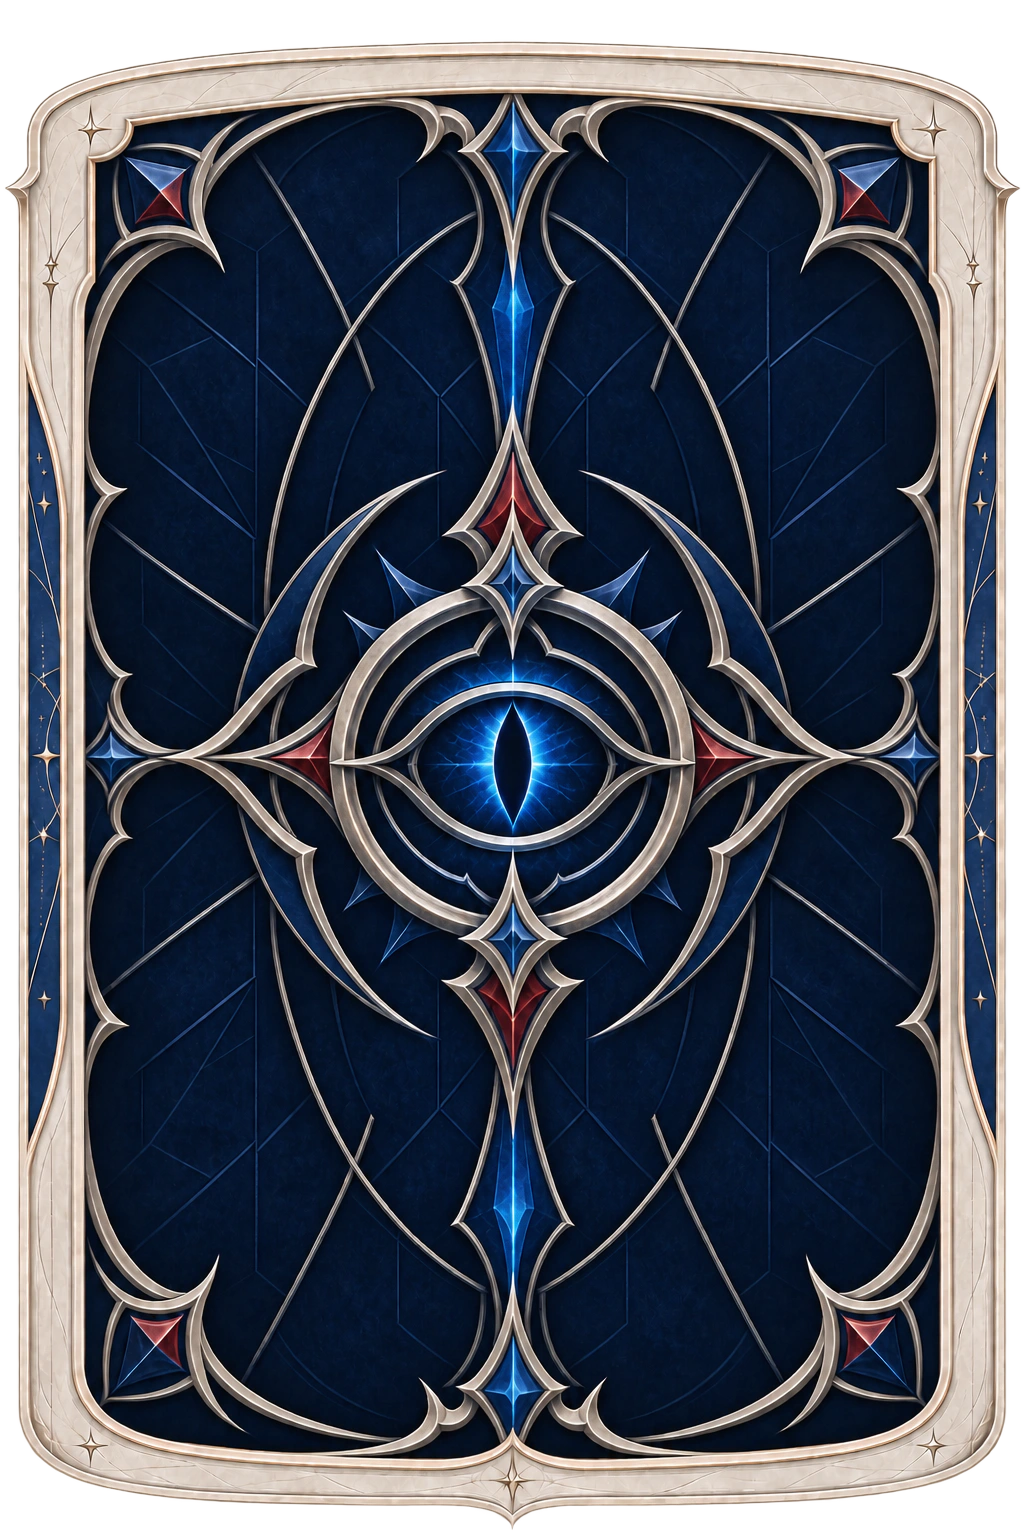
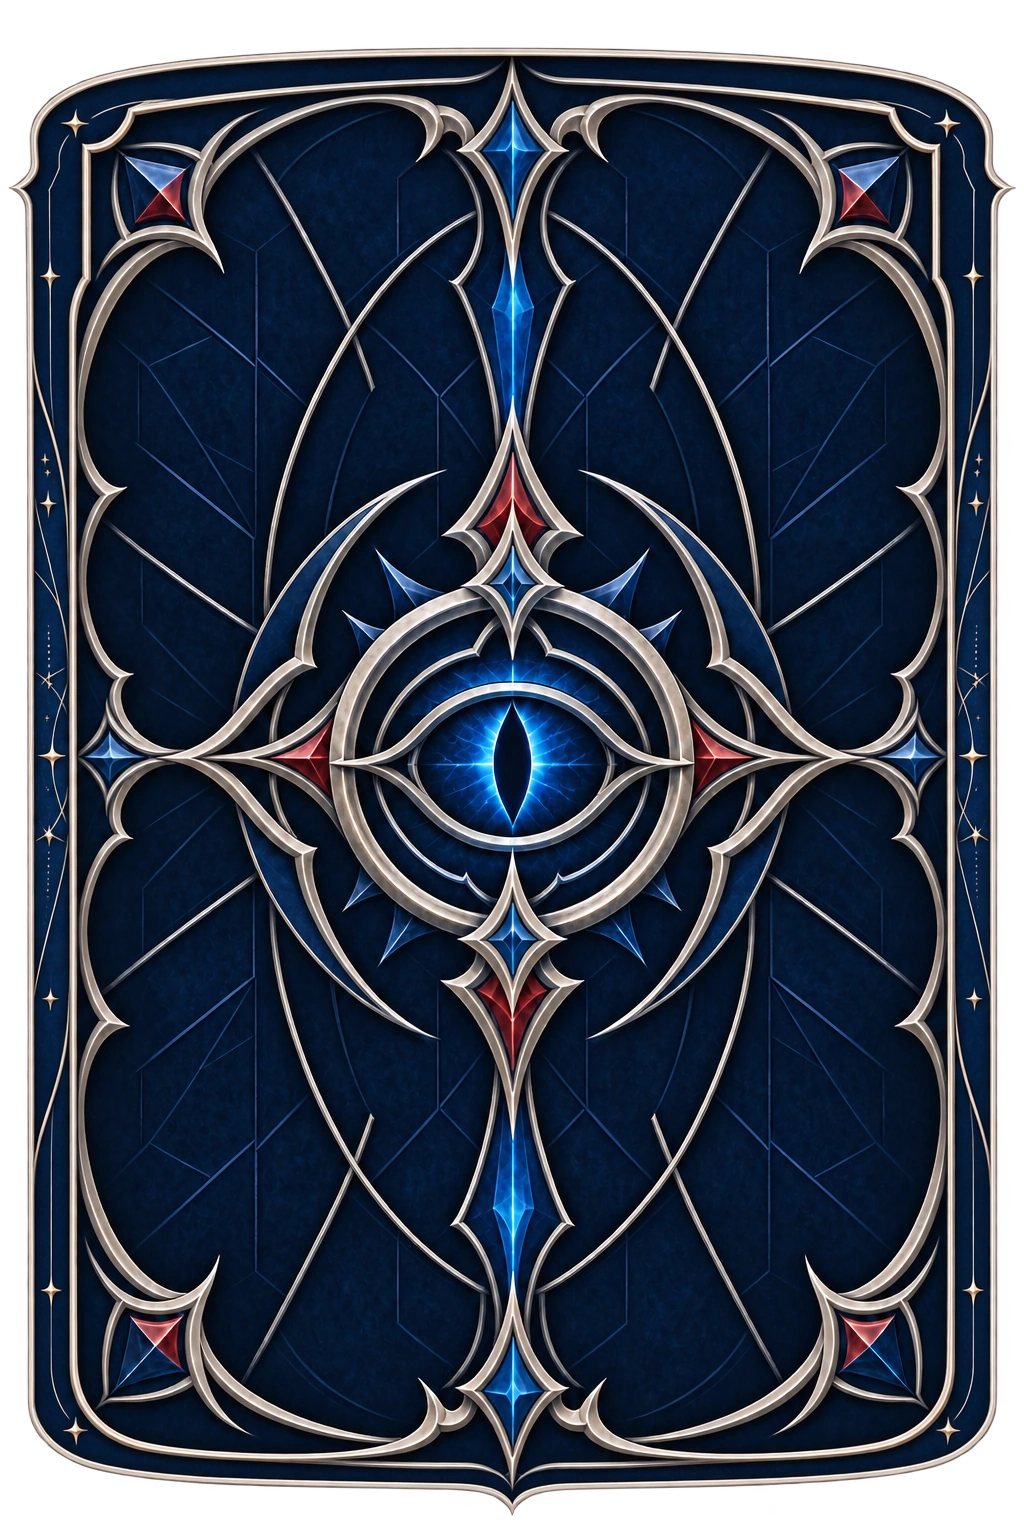
Offer eye-only indigo and thin-frame default sleeves to every player

diff --git a/client/src/ui/deckAppearance.ts b/client/src/ui/deckAppearance.ts
@@ -1,3 +1,4 @@
+import {isFreeSleeve} from '../shared/freeSleeves';
 import {deckFurniturePreview} from './deckFurniturePreview';
 import {CARD_FRAMES} from '../shared/cardFrames';
 import {disposeCardEffects} from './cardFinish';
@@ -9,7 +10,7 @@ import {cardEl} from './cardView';
 import {bindZoom,zoomCard} from './cardInspection';
 import {DB,STARTERS,deckRepresentative} from '../shared/cards';
 import {finishArtPreview} from './finishArtPreview';
-import {SLEEVE_LIST,type DeckPreset} from '../shared/cards';
+import {SLEEVE_LIST,sleeveUrl,type DeckPreset} from '../shared/cards';
 import {FURNITURE_LIST,cosmetic} from '../shared/cosmetics';
 import {getLang,esc} from '../i18n';
 import {loungeText} from './loungeText';
@@ -21,7 +22,7 @@ export function renderDeckAppearance(host:HTMLElement,options:AppearanceOptions)
  const featured=deckRepresentative(deck);
  host.dataset.group=options.group ?? '';
  const key=JSON.stringify([getLang(),options.group,featured,name,error,owned?[...owned].sort():null]);
- const current=views.get(host),appearance=JSON.stringify([deck.effect??'default',deck.frame??'default']);
+ const current=views.get(host),appearance=JSON.stringify([deck.effect??'default',deck.frame??'default',deck.sleeve]);
  if(current?.key===key&&host.querySelector('.deck-appearance-groups')){
   current.options=options;
   for(const button of host.querySelectorAll<HTMLButtonElement>('[data-cosmetic-id]')){
@@ -32,7 +33,7 @@ export function renderDeckAppearance(host:HTMLElement,options:AppearanceOptions)
   }
   if(current.appearance!==appearance){
    const section=host.querySelector<HTMLElement>('.deck-appearance-preview')!;
-   const previous=section.querySelector<HTMLElement>(':scope > .card,:scope > .deck-finish-art');
+   const previous=section.querySelector<HTMLElement>(':scope > .card,:scope > .deck-finish-art,:scope > .deck-sleeve-preview');
    if(previous){disposeCardFrames(previous);disposeCardEffects(previous);previous.remove();}
    appendAppearancePreview(section,deck,options.group);current.appearance=appearance;
   }
@@ -50,11 +51,11 @@ export function renderDeckAppearance(host:HTMLElement,options:AppearanceOptions)
   const list=kind==='frame'?[{id:'default',ja:'通常の白枠',en:'Original frame',ko:'기본 프레임',url:''},...CARD_FRAMES]:kind==='effect'?[{id:'default',ja:'なし',en:'None',ko:'없음',url:''},...CARD_EFFECTS]:kind==='sleeve'?SLEEVE_LIST:[{id:'default',ja:'デフォルト',en:'Default',ko:'기본',url:''},...FURNITURE_LIST];
   const section=document.createElement('section');section.className='deck-cosmetic-group';section.dataset.kind=kind;section.setAttribute('aria-label',title);
   section.innerHTML=`<h4>${title}</h4><div class="deck-cosmetic-grid">${list.map(item=>{
-   const selected=(deck[kind]??'default')===item.id,unlocked=!!owned?.has(item.id),label=item[getLang()];
+   const selected=(deck[kind]??'default')===item.id,unlocked=(kind==='sleeve'&&isFreeSleeve(item.id))||!!owned?.has(item.id),label=item[getLang()];
    const url=kind==='furniture'?deckFurniturePreview(item.id):item.url;
    return `<button type="button" class="deck-cosmetic ${selected?'is-selected':''}" data-cosmetic-kind="${kind}" data-cosmetic-id="${item.id}" aria-pressed="${selected}" aria-label="${esc(label)}" ${unlocked?'':'disabled'}><span class="deck-cosmetic-art ${kind==='furniture'?'furniture-preview':'sleeve-preview'}" style="${url?`background-image:url('${url}')`:''}"></span><span class="deck-cosmetic-name">${esc(label)}</span><span class="deck-cosmetic-state">${selected?loungeText('選択中','Selected','선택됨'):unlocked?loungeText('選択する','Select','선택'):(kind==='effect'||('gachaOnly' in (cosmetic(item.id)??{})))?loungeText('ガチャで入手','Get in gacha','뽑기로 획득'):loungeText('ショップで入手','Get in shop','상점에서 획득')}</span></button>`;
   }).join('')}</div>`;
-  if(kind==='sleeve'){const note=document.createElement('p');note.textContent=loungeText('現在はデフォルトのスリーブのみ利用できます。','Only the default sleeve is currently available.','현재 기본 슬리브만 사용할 수 있습니다.');section.querySelector('h4')!.after(note);}
+  if(kind==='sleeve'){const note=document.createElement('p');note.textContent=loungeText('この2種類は最初から利用できます。','Both sleeves are available from the start.','이 두 슬리브는 처음부터 사용할 수 있습니다.');section.querySelector('h4')!.after(note);}
   if(kind==='frame'){
    const scope=document.createElement('p');scope.className='deck-frame-scope';scope.textContent=loungeText('スターター・対戦中の購入カードを含む全カードに適用。プレイ後もフレームが続きます。','Applies to the whole deck, including starters and cards bought during a duel. Frames remain after play.','스타터와 대전 중 구매한 카드를 포함한 모든 카드에 적용되며 플레이 후에도 유지됩니다.');section.querySelector('h4')!.after(scope);
    section.querySelectorAll<HTMLElement>('[data-cosmetic-id]').forEach(button=>{const slot=button.querySelector('.deck-cosmetic-art')!;slot.className='deck-frame-preview';slot.removeAttribute('style');slot.append(cardEl({...(STARTERS[featured] ?? DB[featured]),uid:'frame-picker-'+button.dataset.cosmeticId},{size:'mkt',effect:'default',frame:button.dataset.cosmeticId}));});
@@ -72,6 +73,9 @@ export function renderDeckAppearance(host:HTMLElement,options:AppearanceOptions)
 
 function appendAppearancePreview(section:HTMLElement,deck:DeckPreset,group?:CosmeticGroup){
  const featured=deckRepresentative(deck);
+ if(group==='sleeve'){
+  const image=new Image();image.className='deck-sleeve-preview';image.src=sleeveUrl(deck.sleeve);image.alt=SLEEVE_LIST.find(s=>s.id===deck.sleeve)?.[getLang()]??SLEEVE_LIST[0][getLang()];section.append(image);return;
+ }
  if(group==='effect'){
    section.append(finishArtPreview(featured,deck.effect));
    return;

diff --git a/client/src/screens/deck.ts b/client/src/screens/deck.ts
@@ -1,3 +1,4 @@
+import {FREE_SLEEVE_IDS,isFreeSleeve} from '../shared/freeSleeves';
 import {deckName,mountDeckLibrary} from './deckLibrary';
 import {backgroundNames,openAppearancePicker} from '../ui/appearancePicker';
 import {characterAppearance} from '../ui/characterAppearance';
@@ -325,7 +326,7 @@ export function mountDeck(app: App, options:{tutorial?:boolean;slot?:number;sing
     if(watching)void revealCards(watchEl,watchNodes,()=>watchVersion===watchRevision);else {cancelRevealCards(watchEl);watchEl.replaceChildren();}
     if(activeTab==='appearance')renderDeckAppearance(q('deckAppearanceSection'),{
       group:cosmeticGroup,deck:store.list[cur],name:store.list[cur].name||t('deck.slot').replace('{n}',String(cur+1)),owned,error:cosmeticError,
-      onPick:(kind,id)=>{if(!owned?.has(id)||saving)return;store.list[cur][kind]=id;render();msgEl.textContent=loungeText('外観を変更しました。「保存」で確定します。','Appearance changed. Save to keep your changes.','외형을 변경했습니다. 저장해 주세요.');},
+      onPick:(kind,id)=>{if(saving||(!owned?.has(id)&&!(kind==='sleeve'&&isFreeSleeve(id))))return;store.list[cur][kind]=id;render();msgEl.textContent=loungeText('外観を変更しました。「保存」で確定します。','Appearance changed. Save to keep your changes.','외형을 변경했습니다. 저장해 주세요.');},
       onShop:()=>app.shop(),onRetry:()=>{void loadOwned();},
     });
     saveBtn.disabled = saving || store.list.some(d => d.cards.length !== DECK_SIZE);
@@ -375,7 +376,7 @@ export function mountDeck(app: App, options:{tutorial?:boolean;slot?:number;sing
 
   const loadOwned=async()=>{
     cosmeticError=false;
-    try {const profile=isLocalDevAccount()?loadLocalGuestProfile():await api.profile();if(dead)return;owned=new Set(['default',...(profile.sleeves??[]),...('furnitures' in profile?profile.furnitures??[]:[]),...('effects' in profile?profile.effects??[]:[]),...('frames' in profile?profile.frames??[]:[])]);}
+    try {const profile=isLocalDevAccount()?loadLocalGuestProfile():await api.profile();if(dead)return;owned=new Set([...FREE_SLEEVE_IDS,...(profile.sleeves??[]),...('furnitures' in profile?profile.furnitures??[]:[]),...('effects' in profile?profile.effects??[]:[]),...('frames' in profile?profile.frames??[]:[])]);}
     catch {if(dead)return;cosmeticError=true;}
     render();
   };

diff --git a/client/src/dev/localAccount.ts b/client/src/dev/localAccount.ts
@@ -1,3 +1,4 @@
+import {FREE_SLEEVE_IDS} from '../shared/freeSleeves';
 import {profileBackground, type ProfileBackground} from '../shared/profileAppearance';
 import {SEEKER_ID} from '../ui/seekerMotion';
 import { t } from '../i18n';
@@ -51,16 +52,16 @@ export function loadLocalGuestProfile(): LocalGuestProfile {
   try {
     const saved = JSON.parse(localStorage.getItem(LOCAL_GUEST_PROFILE_KEY) || "null") as Partial<LocalGuestProfile> | null;
     if (saved && Number.isFinite(saved.credits) && Array.isArray(saved.sleeves)) {
-      return { avatar:saved.avatar ?? SEEKER_ID, background:profileBackground(saved.background), credits: Math.max(0, Math.floor(saved.credits!)), sleeves: [...new Set(["default", ...saved.sleeves])], sleeve: equipmentId(saved.sleeve,'sleeve') };
+      return { avatar:saved.avatar ?? SEEKER_ID, background:profileBackground(saved.background), credits: Math.max(0, Math.floor(saved.credits!)), sleeves: [...new Set([...FREE_SLEEVE_IDS, ...saved.sleeves])], sleeve: equipmentId(saved.sleeve,'sleeve') };
     }
   } catch { /* create a fresh local profile */ }
-  const profile = { credits: 12, sleeves: ["default", "prism"], sleeve: "default" };
+  const profile = { credits: 12, sleeves: [...FREE_SLEEVE_IDS], sleeve: "default" };
   saveLocalGuestProfile(profile);
   return profile;
 }
 
 export function saveLocalGuestProfile(profile: LocalGuestProfile): LocalGuestProfile {
-  const saved = { avatar:profile.avatar ?? SEEKER_ID, background:profileBackground(profile.background), credits: Math.max(0, Math.floor(profile.credits)), sleeves: [...new Set(["default", ...profile.sleeves])], sleeve: equipmentId(profile.sleeve,'sleeve') };
+  const saved = { avatar:profile.avatar ?? SEEKER_ID, background:profileBackground(profile.background), credits: Math.max(0, Math.floor(profile.credits)), sleeves: [...new Set([...FREE_SLEEVE_IDS, ...profile.sleeves])], sleeve: equipmentId(profile.sleeve,'sleeve') };
   localStorage.setItem(LOCAL_GUEST_PROFILE_KEY, JSON.stringify(saved));
   return saved;
 }

diff --git a/client/src/shared/cosmetics.ts b/client/src/shared/cosmetics.ts
@@ -1,3 +1,4 @@
+import {FREE_SLEEVE_IDS,isFreeSleeve} from './freeSleeves';
 import {CARD_FRAMES} from './cardFrames';
 import {COFFER_SLEEVE,COFFER_FURNITURE,COFFER_ART,COFFER_FURNITURE_ART} from './mimicCofferCosmetics';
 import {ELFWEAVE_SLEEVE,ELFWEAVE_FURNITURE,ELFWEAVE_ART,ELFWEAVE_FURNITURE_ART} from './elfweaveCosmetics';
@@ -31,15 +32,15 @@ GACHA_COSMETICS.push(
 // Gacha cosmetics and directly sold frame materials. Unknown legacy equipment
 // resolves to the standard appearance through equipmentId/sleeveUrl.
 export const COSMETICS:Cosmetic[] = [...GACHA_COSMETICS,...CARD_FRAMES];
-// Keep retired sleeves in the ownership catalog; only default can be used for now.
+// Keep retired sleeves in the ownership catalog; only the two standard sleeves can be used for now.
 export const cosmeticAvailable=(item:Cosmetic):boolean=>item.kind!=='sleeve';
 export const AVAILABLE_GACHA_COSMETICS=GACHA_COSMETICS.filter(cosmeticAvailable);
 export const FURNITURE_LIST=COSMETICS.filter(c=>c.kind==='furniture');
 export const cosmetic=(id:string)=>COSMETICS.find(c=>c.id===id);
 export const furnitureUrl=(id:string|null|undefined)=>FURNITURE_LIST.find(c=>c.id===id)?.url;
-export function ownedCosmetics(raw:string|null|undefined):string[]{try{const ids=JSON.parse(raw||'[]');return ['default',...new Set<string>(Array.isArray(ids)?ids.filter((id:unknown)=>typeof id==='string'&&(!!cosmetic(id)||isCardEffect(id))):[])];}catch{return ['default'];}}
+export function ownedCosmetics(raw:string|null|undefined):string[]{try{const ids=JSON.parse(raw||'[]');return [...new Set<string>([...FREE_SLEEVE_IDS,...(Array.isArray(ids)?ids.filter((id:unknown)=>typeof id==='string'&&(!!cosmetic(id)||isCardEffect(id))):[])])];}catch{return [...FREE_SLEEVE_IDS];}}
 
 export function equipmentId(value:unknown,kind:Cosmetic['kind']):string {
- if(kind==='sleeve')return 'default';
+ if(kind==='sleeve')return isFreeSleeve(value)?value:'default';
  return typeof value==='string'&&cosmetic(value)?.kind===kind?value:'default';
 }

diff --git a/server/src/social.ts b/server/src/social.ts
@@ -1,3 +1,4 @@
+import {isFreeSleeve} from '../../client/src/shared/freeSleeves';
 import {isCardFrame} from '../../client/src/shared/cardFrames';
 import {rankedProfile} from './rankedProfile';
 import {parseUsername} from '../../client/src/shared/username';
@@ -175,9 +176,9 @@ export async function handleSocial(env: Env, req: Request, path: string, user: S
     if (typeof body.stats_public === "boolean") { sets.push("stats_public = ?"); args.push(body.stats_public ? 1 : 0); }
     for(const kind of ['sleeve','furniture'] as const){
       const id=body[kind];if(typeof id!=='string')continue;
-      if(kind==='sleeve'&&id!=='default')return json(env,{error:'このスリーブは現在利用できません'},400);
+      if(kind==='sleeve'&&!isFreeSleeve(id))return json(env,{error:'このスリーブは現在利用できません'},400);
       const row=await env.DB.prepare('SELECT sleeves FROM users WHERE id = ?').bind(user.id).first<{sleeves:string|null}>();
-      if(id!=='default'&&(!ownedCosmetics(row?.sleeves).includes(id)||cosmetic(id)?.kind!==kind))return json(env,{error:'未所持の商品です'},400);
+      if(id!=='default'&&!(kind==='sleeve'&&isFreeSleeve(id))&&(!ownedCosmetics(row?.sleeves).includes(id)||cosmetic(id)?.kind!==kind))return json(env,{error:'未所持の商品です'},400);
       sets.push(`${kind} = ?`);args.push(id==='default'?null:id);
     }
     if (!sets.length) return json(env, { error: "no changes" }, 400);

diff --git a/client/src/shared/cards.ts b/client/src/shared/cards.ts
@@ -1,3 +1,4 @@
+import {FREE_SLEEVES} from './freeSleeves';
 import {balance99Prints} from './balance99';
 import {balance98Prints} from './balance98';
 import {balanceChanges} from './novemberBalance';
@@ -2634,14 +2635,10 @@ export function fieldFrameFor(t: CardType): string {
 }
 export const FRAME_BACK = "/frames/sleeve_default.webp";
 
-// ---- card sleeves (card backs). The game now uses one universal sleeve.
-// Legacy multi-sleeve shop/ownership was retired (backup/local-0801 merge). ----
+// ---- Standard card sleeves, available to all players. Other sleeves stay disabled. ----
 export interface Sleeve { id: string; url: string; ko: string; ja: string; en: string; price: number; }
-export const SLEEVES: Record<string, Sleeve> = {
-  default: { id: "default", url: FRAME_BACK, ko: "기본", ja: "デフォルト", en: "Default", price: 0 },
-};
-/** ordered list for shop/picker rendering (default first). */
-// Non-default sleeves are temporarily unavailable, including previously equipped IDs.
+export const SLEEVES: Record<string, Sleeve> = FREE_SLEEVES;
+/** Ordered list for the deck picker (default first). */
 export const SLEEVE_LIST: Sleeve[] = Object.values(SLEEVES);
 export function sleeveUrl(id: string | null | undefined): string { return SLEEVES[id||"default"]?.url||FRAME_BACK; }
 

diff --git a/client/src/shared/freeSleeves.ts b/client/src/shared/freeSleeves.ts
@@ -1,0 +1,8 @@
+/** Standard sleeves available to every account, independent of purchased inventory. */
+export const INDIGO_EYE_SLEEVE='sleeve:indigo-eye';
+export const FREE_SLEEVES={
+ default:{id:'default',url:'/frames/sleeve_default.webp',ko:'기본',ja:'デフォルト',en:'Default',price:0},
+ [INDIGO_EYE_SLEEVE]:{id:INDIGO_EYE_SLEEVE,url:'/frames/sleeve_indigo_eye.webp',ko:'남빛의 눈',ja:'藍銀の瞳',en:'Indigo Eye',price:0},
+};
+export const FREE_SLEEVE_IDS=Object.values(FREE_SLEEVES).map(sleeve=>sleeve.id);
+export const isFreeSleeve=(id:unknown):id is string=>typeof id==='string'&&FREE_SLEEVE_IDS.includes(id);

diff --git a/client/src/styles/deckAppearance.css b/client/src/styles/deckAppearance.css
@@ -3,3 +3,5 @@
 .deck-appearance-preview figcaption{font-size:12px;color:var(--lore-text-muted,#adc3d3)}
 .deck-appearance-preview>.card{display:block;flex:none;position:relative;width:128px;height:200px;--cw:128px;--ch:200px;margin:0;cursor:zoom-in}
 .deck-appearance-preview>.card:focus-visible{outline:2px solid #b8deee;outline-offset:5px}
+
+.deck-appearance-preview>.deck-sleeve-preview{display:block;flex:none;width:128px;height:200px;object-fit:fill}

diff --git a/docs/releases/2026-11-20-free-sleeves/README.md b/docs/releases/2026-11-20-free-sleeves/README.md
@@ -1,0 +1,27 @@
+# Two standard sleeves — 2026-11-20
+
+The user requested an eye-only indigo sleeve, a slimmer frame on the existing default, both freely selectable from deck editing for every player, and production deployment.
+
+## Source and art
+
+Baseline/fetched main: `2c842f16722f468062e4e596d3404b3bff9fce93`, whose runtime is deployed source `60ddcb996143f76f4a68191839b75f8273f762e3`. Preserved the adopted card contour, board/furniture and existing menu design. References: `docs/world-bible.md`, `docs/default-ui-design.md`, `docs/menu-design-insights.md`.
+
+Built-in imagegen outputs and exact prompts are in `imagegen.json`. Masters: `client/public/frames/sleeve_default.png` and `sleeve_indigo_eye.png`. WebP copies use quality 94 with full-quality alpha. The default keeps its original ornate eye/lattice artwork with a narrow perimeter; Indigo Eye keeps the indigo field and isolated eye/compass emblem, without LORE lettering. Physical paper outline regenerated with `scripts/build-card-stock-outline.mjs`.
+
+## Availability and persistence
+
+- `client/src/shared/freeSleeves.ts` defines exactly `default` and `sleeve:indigo-eye` in JA/EN/KO.
+- Both are implicit initial inventory for existing and new accounts, including null, empty and malformed historical inventory. No grant migration, spending or purchase required.
+- Shared normalization, profile equip, deck saving, auth, queue and friendly matches preserve both valid IDs. Every other sleeve stays disabled; owned retired items remain stored. Gacha and sale pools remain unchanged.
+- The deck picker shows both options and a live selected sleeve preview. Local guest behavior matches availability.
+
+## Validation
+
+- Real Worker and SQLite: empty/null inventory, zero credits, equip, save/reload, queue and friendly appearance propagation, retained owned cosmetics, and rejected retired sleeves.
+- Gacha catalog/collection and physical pile checks passed.
+- `tests/free-sleeves-browser.mjs`: actual current deck editor, empty starting inventory and zero credits, both selections, preview changes, save/reload (`picker-check.json`). Local account fixture; not production authentication.
+- `tests/free-sleeves-board-browser.mjs`: actual GameView at 1920×1080, swapping the two real sleeve IDs between players without texture routing; no page errors (`board-check.json`).
+- Visuals inspected: `eye-picker.png`, `default-self-eye-opponent.png` and `eye-self-default-opponent.png`.
+- Preview cwd: `/Users/hiromaru05s/.codex/worktrees/nameplate-board-1119/LORE_TCG/client`, port 5473; `/sleeve-indigo-preview.html` and `/nameplate-board.html` use the current sources.
+
+Full production-suite and live deployment evidence will be added after the guard completes. Fixture checks are not authenticated live PvP verification.
